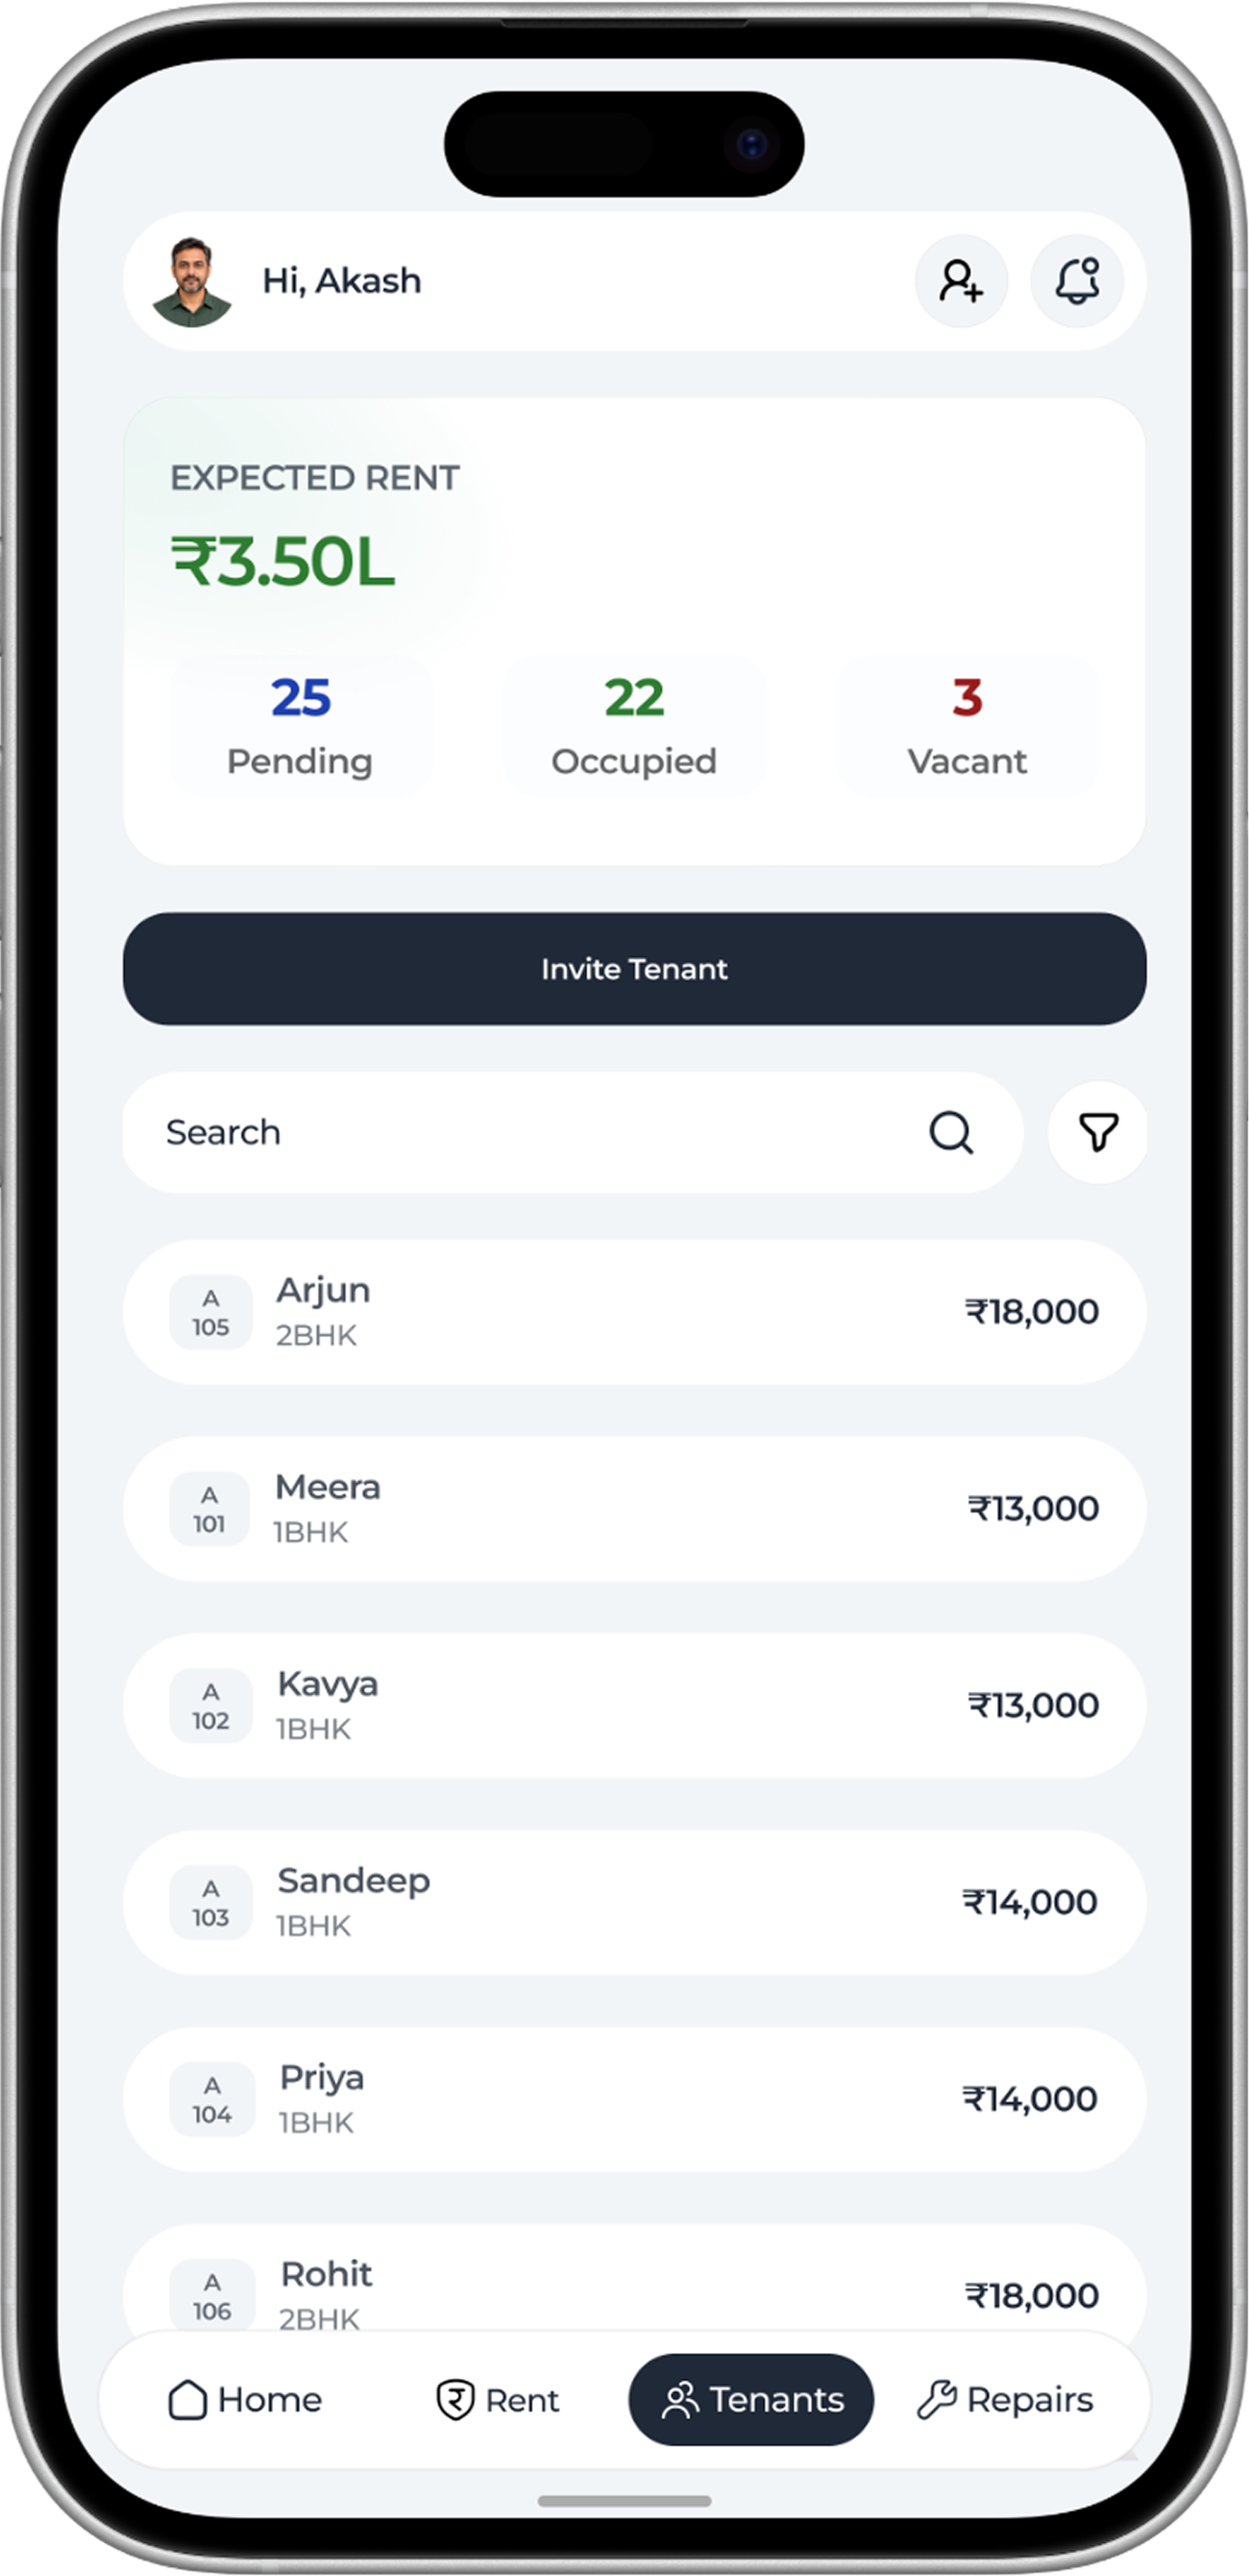
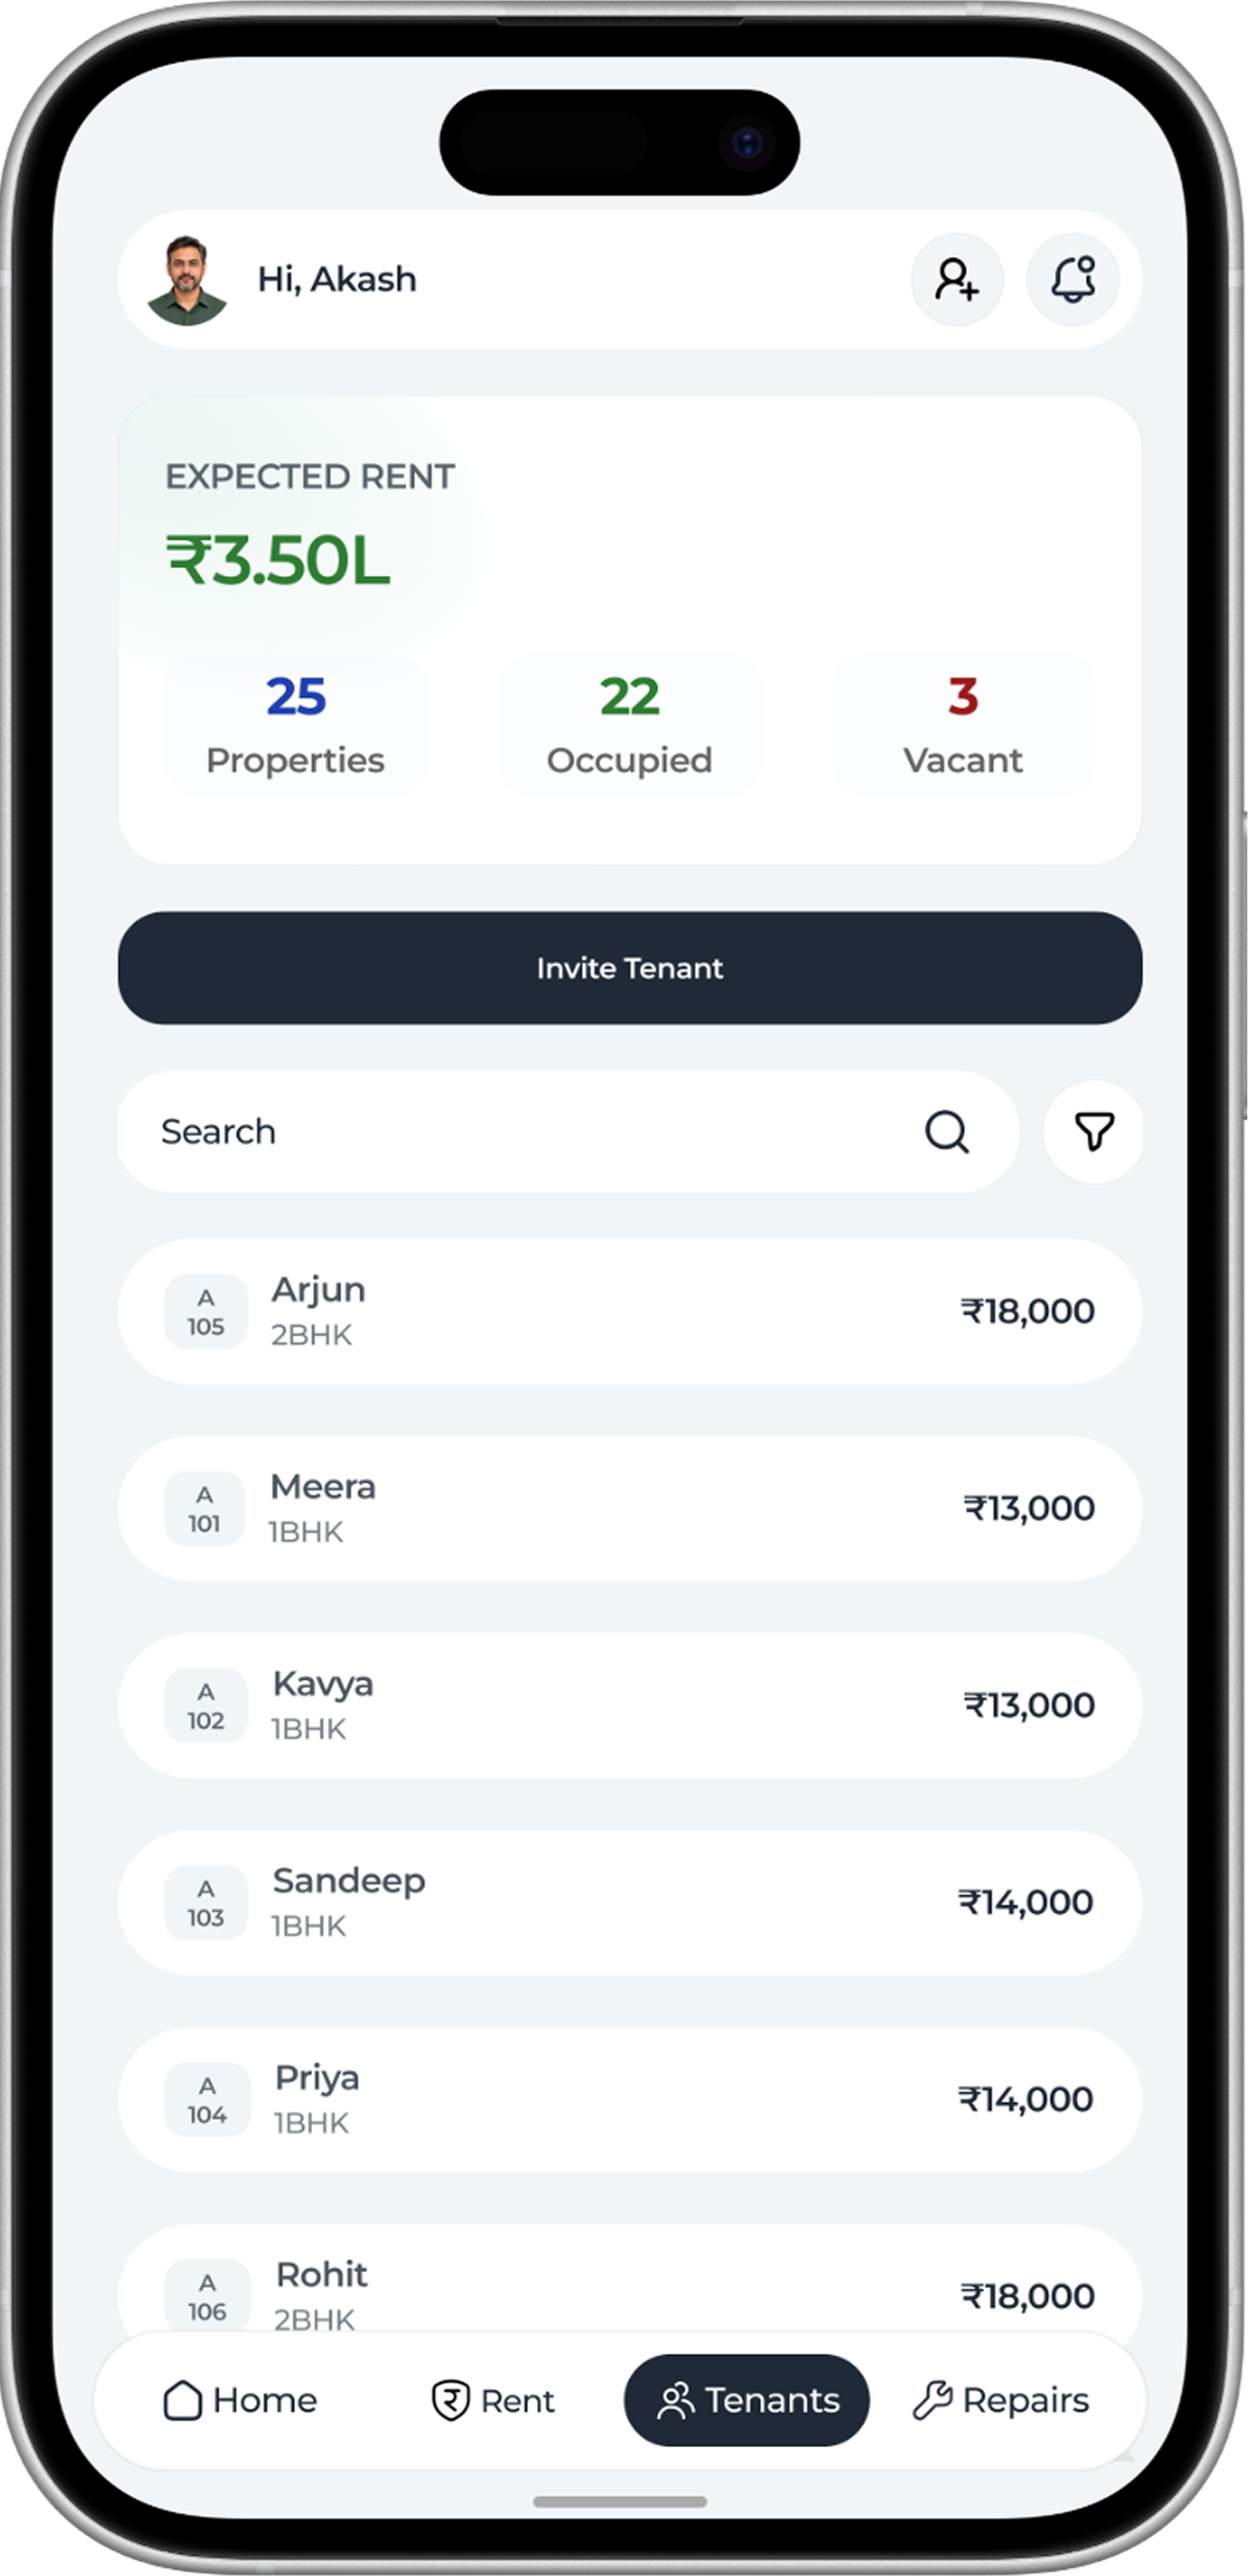
Update CueUp case study popup

diff --git a/src/lib/components/cueup/CSummary.svelte b/src/lib/components/cueup/CSummary.svelte
@@ -61,6 +61,20 @@
 					<ul><li>One shared status for rent and repairs</li><li>Payment-proof submission and verification</li><li>Clear repair ownership and progress</li></ul>
 				</section>
 				<section>
+					<h2>Design</h2>
+					<div class="design-grid">
+						<div class="design-stack">
+							<figure class="mock-rent-overview"><img src="/img/CueUp/Rentoverview.png" alt="CueUp tenant rent-overview screen" /></figure>
+							<figure class="mock-open-resolved"><img src="/img/CueUp/openandresolvedtenant.png" alt="CueUp tenant open and resolved repairs screens" /></figure>
+							<figure class="mock-update-left"><img src="/img/CueUp/Update.png" alt="CueUp tenant update screen" /></figure>
+						</div>
+						<div class="design-stack">
+							<figure class="mock-pay-rent"><img src="/img/CueUp/Payrent.png" alt="CueUp tenant pay-rent screen" /></figure>
+							<figure class="mock-issue"><img src="/img/CueUp/Issue.png" alt="CueUp tenant issue-reporting screen" /></figure>
+						</div>
+					</div>
+				</section>
+				<section>
 					<h2>Result</h2>
 					<p>A focused end-to-end concept built around visibility, accountability, and trust.</p>
 					<p>Product impact remains unmeasured because the concept has not been launched.</p>
@@ -115,7 +129,7 @@
 		width: 100%;
 		overflow: hidden;
 		border-radius: 28px;
-		background: #fff;
+		background: #f2f5f8;
 		box-shadow: 0 24px 80px rgb(0 0 0 / 25%);
 	}
 	.card-shell::after {
@@ -123,7 +137,7 @@
 		position: absolute;
 		inset: auto 0 0;
 		height: 64px;
-		background: linear-gradient(transparent, #fff);
+		background: linear-gradient(transparent, #f2f5f8);
 		pointer-events: none;
 		opacity: 0;
 		transition: opacity 180ms ease;
@@ -141,6 +155,14 @@
 	.details { display: grid; gap: 36px; margin-top: 28px; }
 	.details section { display: grid; gap: 14px; }
 	.details h2 { margin: 0; font-size: 23px; line-height: 1.3; font-weight: 600; }
+	.design-grid { display: grid; grid-template-columns: repeat(2, minmax(0, 1fr)); gap: 16px; padding: 8px 6px; }
+	.design-stack { display: grid; align-content: start; gap: 24px; }
+	.design-grid figure { margin: 0; }
+	.design-grid img { display: block; width: 100%; height: auto; }
+	.mock-rent-overview, .mock-open-resolved, .mock-update-left { transform: rotate(-4deg); }
+	.mock-pay-rent { transform: translateX(2px) rotate(2deg); }
+	.mock-issue { transform: translateX(-2px) rotate(2deg); }
+	.mock-issue { width: 94%; justify-self: center; }
 	section p, li { color: #636a73; font-size: 16px; line-height: 1.8; }
 	ul, ol { padding-left: 24px; display: grid; gap: 8px; }
 	blockquote { padding: 20px 24px; border-left: 3px solid #059669; background: #f2f8f5; border-radius: 0 12px 12px 0; font-size: 17px; line-height: 1.7; }

diff --git a/src/lib/data/cueup.js b/src/lib/data/cueup.js
@@ -228,7 +228,7 @@ export const personas = {
 		context:
 			'Manages Rental Units Directly And Coordinates Rent And Repairs Through Notebooks, WhatsApp, Calls, And Payment Screenshots.',
 		stats: [
-			{ n: '25', label: 'Pending', color: '#1e40af' },
+			{ n: '25', label: 'Properties', color: '#1e40af' },
 			{ n: '22', label: 'Occupied', color: '#2e7d32' },
 			{ n: '3', label: 'Vacant', color: '#991b1b' }
 		],

diff --git a/src/lib/components/cueup/CPersona.svelte b/src/lib/components/cueup/CPersona.svelte
@@ -37,7 +37,7 @@
 		<p>{context}</p>
 
 		{#if stats}
-			<h3 class="props-head">Property Status:</h3>
+			<h3 class="props-head">Status</h3>
 			<div class="stats">
 				{#each stats as s (s.label)}
 					<div class="stat">
